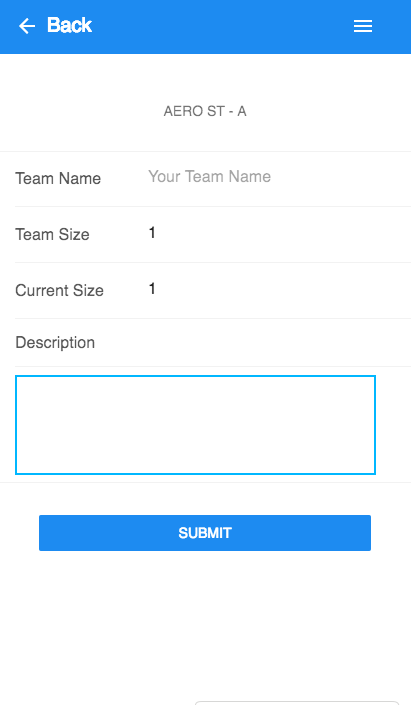
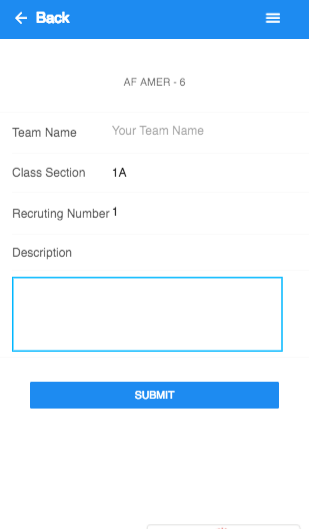
updates: join group ui

diff --git a/js/my-app.js b/js/my-app.js
@@ -38,10 +38,18 @@ var mainView = myApp.addView('.view-main', {
     domCache: true
 });
 
-var subjects = [];
-var subjectClasses = [];
+var subjects = []; //First call, get the subjects
+var subjectClasses = []; //Second call, get all the classes
 var temp = [];
 var classAVB = [];
+var userid = undefined;
+
+/*
+    Parameters: none
+    Return value: none
+    Divide into two functions, first one gets all the subjects, second one gets
+    all the classes corresponding to that subject
+*/
 
 function loadClasses() {
     var xmlhttp = new XMLHttpRequest();
@@ -78,10 +86,26 @@ function loadClasses() {
     xmlhttp.send();
 }
 
+/*
+    Parameters: none
+    Return value: none
+    Load back to index page
+*/
+
 $$('#sectionAddBtn').on('click', function() {
     //just for test
     mainView.router.load({pageName: 'index'});
 });
+
+/*
+    Parameters: none
+    Return value: none
+    Test all the input fields in Sign Up page
+        --UserName: ['a'-'z'], ['A'-'Z'], [0-9], letter must be the first character
+        --Password: at least 6 characters digit and letter only
+        --Phone number: 10 digits
+        --Email:
+*/
 
 $$('#registerBtn').on('click', function() {
     var tempUserName = $$('.register-screen input[name = "username"]').val();
@@ -142,6 +166,12 @@ $$('#registerBtn').on('click', function() {
         $$('.register-screen input[name = "repeatedpassword"]').val("");    
     }, 500);
 });
+
+/*
+    Parameter: none
+    Return value; none
+    Change Password, 
+*/
 
 $$('#pwdchangeBtn').on('click', function() {
     var tempUserName = $$('.pwdchange-screen input[name = "cpusername"]').val();
@@ -328,8 +358,8 @@ function threeBtn(classname) {
         onClick: function() {
           document.getElementById("raiseTeamPageID").innerHTML = classname;
           document.getElementById("teamname").value = "";
-          document.getElementById("teamsize").value = 1;
-          document.getElementById("curteamsize").value = 1;
+          document.getElementById("groupsectionTo").value = '1A';
+          document.getElementById("recruteremain").value = 1;
           document.getElementById("teamDescription").value = "";
           mainView.router.load({pageName: 'raiseTeamPage'});
         }
@@ -337,7 +367,8 @@ function threeBtn(classname) {
       {
         text: 'Join a Team',
         onClick: function() {
-          myApp.alert('Have not implemented')
+          document.getElementById("jointeampageid").innerHTML = classname;
+          getTeamInfo(classname);
         }
       },
       {
@@ -345,6 +376,69 @@ function threeBtn(classname) {
       },
     ]
   })
+}
+
+function joingroupBtn(classname, section, teamname, recrutesize, desc) {
+    myApp.modal({
+    title:  '<div class="buttons-row">'+
+              '<a href="#tab1" class="button active tab-link">Team</a>'+
+              '<a href="#tab2" class="button tab-link">Desc</a>'+
+            '</div>',
+    text: '<div class="tabs">'+
+            '<div class="tab active" id="tab1">Class Name: '+ classname + '<br>Section: ' + section + '<br>Team Name: ' + teamname + '<br>Remaining: ' + recrutesize + '</div>'+
+            '<div class="tab" id="tab2">'+ desc +'</div>'+
+          '</div>',
+    verticalButtons: true,
+    buttons: [
+      {
+        text: 'Join',
+        onClick: function() {
+          myApp.alert('hello', 'ahha');
+        }
+      },
+      {
+        text: 'Cancel'
+      },
+    ]
+  })
+}
+
+var teaminfos = [
+    {
+        'classname': 'cs 130',
+        'section': '1A',
+        'teamsize': '4',
+        'currentsize': '3',
+        'description': 'testing'
+    },
+    {
+        'classname': 'cs 111',
+        'section': '1A',
+        'teamsize': '6',
+        'currentsize': '2',
+        'description': 'testing'
+    }
+];
+
+function getTeamInfo(className) {
+    //teaminfos = undefined;
+    //call server side file and get the json array then call loadteaminfo()
+    loadteaminfo();
+}
+
+function loadteaminfo() {
+    // var loadinfo = document.getElementById("loadteam");
+    // loadinfo.innerHTML = '';
+    // for(var i = 0; i < teaminfos.length; i++) {
+    //     var lidom = document.createElement("li");
+    //     lidom.className = "item-content"; 
+    //     var dDom = '<a onclick="classAddUI(\''+classAVB[i]+' - '+temp1[0]+'\')" href="#'+
+    //                 '" class="item-link"> <div class="item-content"> <div class="item-inner">' +
+    //                 '<div class="item-title">' + subjectClasses[i][j] + '</div></div></div></a>';
+    //     lidom.innerHTML = dDom;
+    //     temp.append(lidom);
+    // }
+    mainView.router.load({pageName: 'jointeampage'});
 }
 
 setInterval(function() {
@@ -434,7 +528,7 @@ function addClass2(i) {
 }
 
 function addSubjects() {
-    console.log(classAVB);
+    console.log(subjectClasses);
     var subjectul = $$('#subjectUL');
     var subjectulg = $$('#subjectULGroup');
     for(var i = 0; i < subjects.length; i++) {
@@ -454,3 +548,5 @@ function addSubjects() {
         subjectulg.append(lidom2);
     }
 }
+
+

diff --git a/index.html b/index.html
@@ -82,7 +82,19 @@
             <div class="right" style="margin-right: 20px;">
               <a href="#" class="link icon-only open-panel"><i class="icon icon-bars"></i></a>
             </div>
-          </div><div data-page="raiseTeamPage" id="classPage" class="navbar-inner cached">
+          </div>
+          <div data-page="raiseTeamPage" id="classPage" class="navbar-inner cached">
+            <div class="left">
+              <a href="#" class="back link">
+                <i class="icon icon-back"></i>
+                <span>Back</span>
+              </a>
+            </div>
+            <div class="right" style="margin-right: 20px;">
+              <a href="#" class="link icon-only open-panel"><i class="icon icon-bars"></i></a>
+            </div>
+          </div> 
+          <div data-page="jointeampage" id="classPage" class="navbar-inner cached">
             <div class="left">
               <a href="#" class="back link">
                 <i class="icon icon-back"></i>
@@ -262,17 +274,26 @@
                     </li>
                     <li class="item-content">
                       <div class="item-inner">
-                        <div class="item-title label">Team Size</div>
-                        <div class="item-input">
-                          <input type="number" name="teamsize" id="teamsize" min="1" max="10" placeholder="Your Team Size">
-                        </div>
+                        <div class="item-title label">Class Section</div>
+                        <select name="groupsectionTo" id="groupsectionTo">
+                          <option value="1A">1A</option>
+                          <option value="1B">1B</option>
+                          <option value="1C">1C</option>
+                          <option value="1D">1D</option>
+                          <option value="1E">1E</option>
+                          <option value="1F">1F</option>
+                          <option value="1G">1G</option>
+                          <option value="1H">1H</option>
+                          <option value="1I">1I</option>
+                          <option value="1J">1J</option>
+                        </select>
                       </div>
                     </li>
                     <li class="item-content">
                       <div class="item-inner">
-                        <div class="item-title label">Current Size</div>
+                        <div class="item-title label">Recruting Number</div>
                         <div class="item-input">
-                          <input type="number" name="curteamsize" id="curteamsize" min="1" max="9" placeholder="Current Team Size">
+                          <input type="number" name="curteamsize" id="recruteremain" min="1" max="9" placeholder="Current Team Size">
                         </div>
                       </div>
                     </li>
@@ -290,6 +311,25 @@
                 </div>
               </form>
               <p><a href="#index" style="margin-left: 40px; margin-right: 40px;" class="button button-fill button-blue" id="raiseteambtn">Submit</a></p>
+            </div>
+          </div>
+
+          <div data-page="jointeampage" class="page cached">
+            <div class="page-content" style="top: 10%;">
+              <div class="content-block-title" style="text-align: center;" id="jointeampageid"></div>
+              <div class="list-block">
+                <ul id="loadteam">
+                  <li class="button button-fill button-blue" onclick="joingroupBtn('cs 130', '1A', 'Team 404', '4', 'testing')" style="width: 80%; left: 10%; border-radius: 10px; margin: 10px 0 10px 0; height: 50px;">
+                    <a href="#" style="color: white;">Team 404</a>
+                  </li>
+                  <li class="button button-fill button-blue" onclick="joingroupBtn('cs 111', '1A', 'Moon', '4', 'testing')" style="width: 80%; left: 10%; border-radius: 10px; margin: 10px 0 10px 0; height: 50px;">
+                    <a href="#" style="color: white;">Moon</a>
+                  </li>
+                  <li class="button button-fill button-blue" onclick="joingroupBtn('cs 130', '1B', 'Kanpai', '4', 'testing')" style="width: 80%; left: 10%; border-radius: 10px; margin: 10px 0 10px 0; height: 50px;">
+                    <a href="#" style="color: white;">Kanpai</a>
+                  </li>
+                </ul>
+              </div>
             </div>
           </div>
           

diff --git a/README.md b/README.md
@@ -54,9 +54,12 @@ This section requires users to enter their current parking lot number, and parki
 ![CHANGESECTION UI](https://github.com/HKanLiu/CSC/blob/master/screenshot/changesectionui.png)
 
 #### 4. If You Want to Add a New Section in 'Group Team Up', It Has the Same Instructions as Step 3, but After You Select Your Class, It Pops up a Modal that Asks You If You Want to Raise a Team or Join a Team
-
+##### 4.1 Group Team Up
 ![TEAMUP UI](https://github.com/HKanLiu/CSC/blob/master/screenshot/teamupui.png)
 ![TEAMUP UI](https://github.com/HKanLiu/CSC/blob/master/screenshot/raiseteamui.png)
+##### 4.2 Join Team
+![TEAMUP UI](https://github.com/HKanLiu/CSC/blob/master/screenshot/jointeamui.png)
+![TEAMUP UI](https://github.com/HKanLiu/CSC/blob/master/screenshot/jointeampopup.png)
 
 #### 5. Log Out
 
